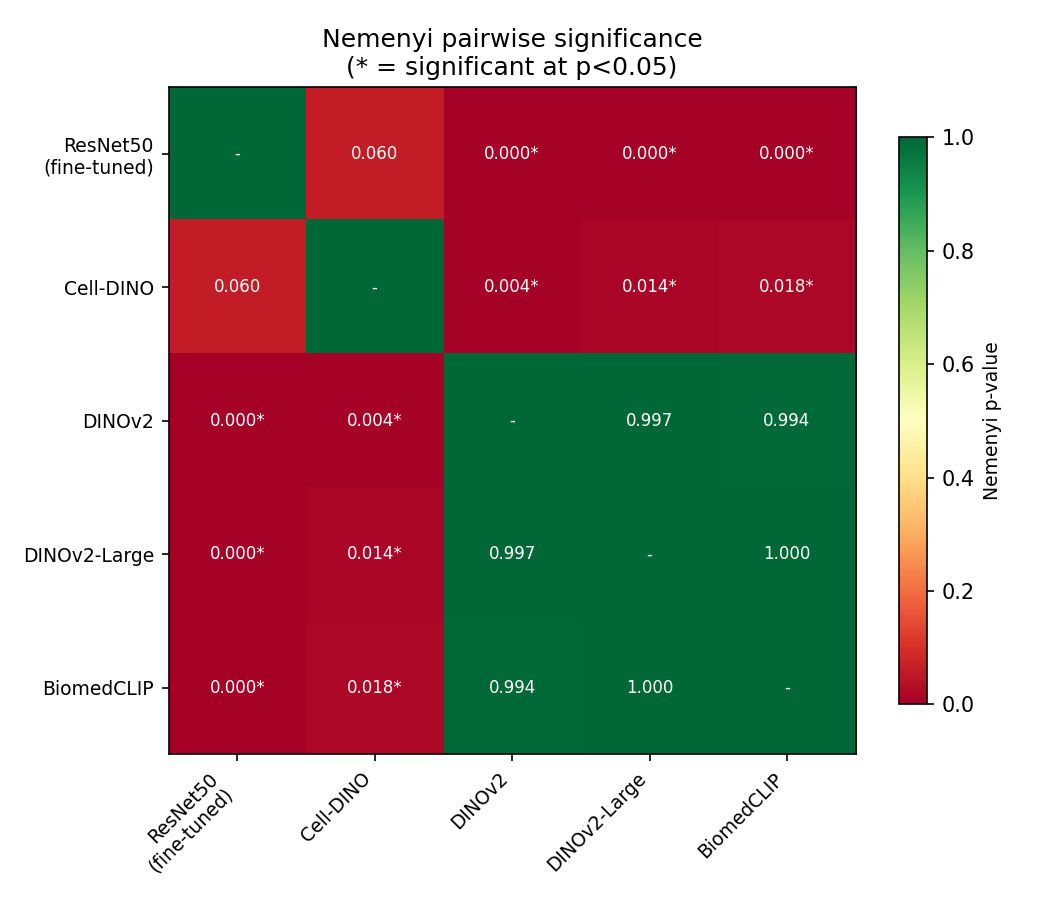
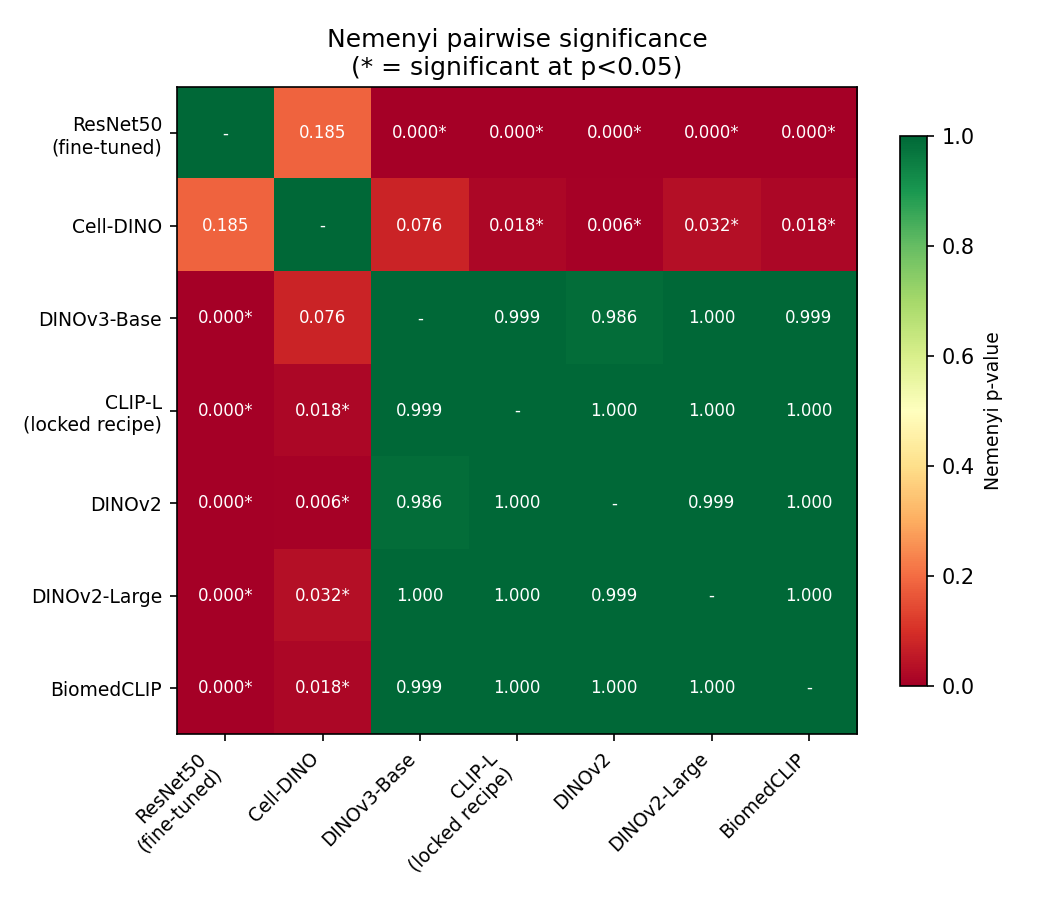
Add DINOv3-Base and CLIP-L (locked recipe) to all cross-model figures (A,B,C,E,F,G,H); independently backfilled test_preds.csv/test_labels.csv for both arms via retrained heads, verified to floating-point precision; updated 7-arm Friedman/Nemenyi (chi2=62.53, p=1.38e-11)

diff --git a/make_pr_calibration_pareto.py b/make_pr_calibration_pareto.py
@@ -40,7 +40,9 @@ ARMS = [
     ("bioact_celldino_r224",   "Cell-DINO",             "#2E6FB0", "plots"),
     ("bioact_dino_r224",       "DINOv2-Base",           "#5BA3D0", "plots"),
     ("bioact_dino_large_r224", "DINOv2-Large",          "#1A4A7A", "plots"),
+    ("bioact_dinov3_r224",     "DINOv3-Base",           "#0F3A5C", "plots"),
     ("bioact_biomedclip_r224", "BiomedCLIP",            "#8FC3E0", "plots"),
+    ("bioact_clip_r224",       "CLIP-L (locked)",       "#4A90C2", "plots"),
     ("bioact_lora_vit_s_r224", "DINOv2+LoRA",           "#7B5EA7", "direct"),
     ("bioact_resnet_r224",     "ResNet50 (fine-tuned)", "#C0603A", "direct"),
 ]
@@ -142,9 +144,11 @@ def head_params(dim, n_classes=29):
 # don't overlap each other or their own markers.
 PARETO = [
     ("Cell-DINO",             0.5932, 100 * head_params(384)  / 21_500_000, "frozen",    (10, 4)),
-    ("DINOv2-Base",           0.5796, 100 * head_params(768)  / 86_600_000, "frozen",    (-15, 12)),
+    ("DINOv2-Base",           0.5796, 100 * head_params(768)  / 86_600_000, "frozen",    (-15, 20)),
     ("DINOv2-Large",          0.5790, 100 * head_params(1024) / 304_800_000, "frozen",   (12, -18)),
-    ("BiomedCLIP",            0.5774, 100 * head_params(768)  / 86_000_000, "frozen",    (10, -14)),  # ViT-B/16 vision tower, ~86M
+    ("DINOv3-Base",           0.5804, 100 * head_params(768)  / 86_000_000, "frozen",    (-90, 16)),  # ViT-B, ~86M assumed (768-dim matches DINOv2-Base scale; not wired into this repo's models.py)
+    ("BiomedCLIP",            0.5774, 100 * head_params(768)  / 86_000_000, "frozen",    (10, -28)),  # ViT-B/16 vision tower, ~86M
+    ("CLIP-L (locked)",       0.5798, 100 * head_params(768)  / 304_000_000, "frozen",   (10, -8)),
     ("DINOv2+LoRA",           0.6373, 100 * 0.54 / 22.4, "lora",                          (10, 4)),
     ("ResNet50 (fine-tuned)", 0.6638, 100.0, "finetuned",                                 (-155, 4)),
 ]

diff --git a/make_benchmark_figures.py b/make_benchmark_figures.py
@@ -37,7 +37,9 @@ ARMS = [
     ("celldino_r224",   "Cell-DINO",   "frozen"),
     ("dino_r224",       "DINOv2",      "frozen"),
     ("dino_large_r224", "DINOv2-Large","frozen"),
+    ("dinov3_r224",     "DINOv3-Base", "frozen"),
     ("biomedclip_r224", "BiomedCLIP",  "frozen"),
+    ("clip_r224",       "CLIP-L\n(locked recipe)", "frozen"),
     ("resnet_r224",     "ResNet50\n(fine-tuned)", "finetuned"),
 ]
 # resolution comparison arms
@@ -45,12 +47,14 @@ RES_ARMS = [
     ("celldino_r224", "Cell-DINO 224"), ("celldino_r448", "Cell-DINO 448"),
     ("dino_r224", "DINOv2 224"), ("dino_r448", "DINOv2 448"),
     ("dino_large_r224", "DINOv2-Large 224"), ("dino_large_r448", "DINOv2-Large 448"),
+    ("dinov3_r224", "DINOv3-Base 224"), ("dinov3_r448", "DINOv3-Base 448"),
     ("resnet_r224", "ResNet 224"), ("resnet_r448", "ResNet 448"),
 ]
 
 # colors: frozen = blue shades, fine-tuned = warm
 COLORS = {
-    "Cell-DINO": "#2E6FB0", "DINOv2": "#5BA3D0", "DINOv2-Large": "#1A4A7A", "BiomedCLIP": "#8FC3E0",
+    "Cell-DINO": "#2E6FB0", "DINOv2": "#5BA3D0", "DINOv2-Large": "#1A4A7A",
+    "DINOv3-Base": "#0F3A5C", "BiomedCLIP": "#8FC3E0", "CLIP-L\n(locked recipe)": "#4A90C2",
     "ResNet50\n(fine-tuned)": "#C0603A",
 }
 PUBLIC_REF = 0.660  # Haslum public JUMP-CP benchmark
